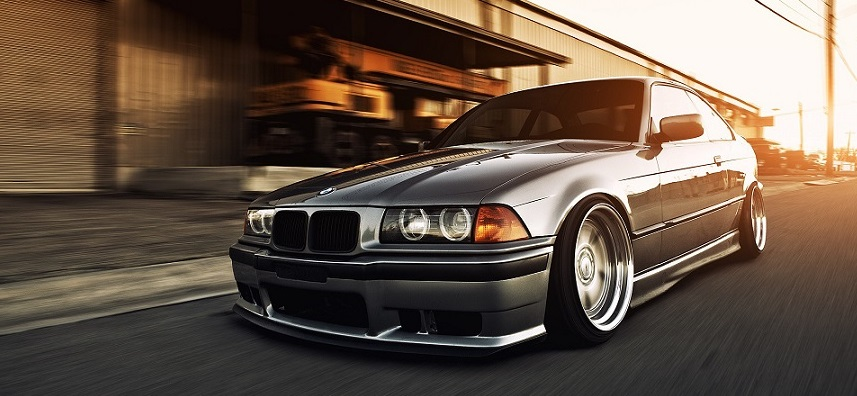
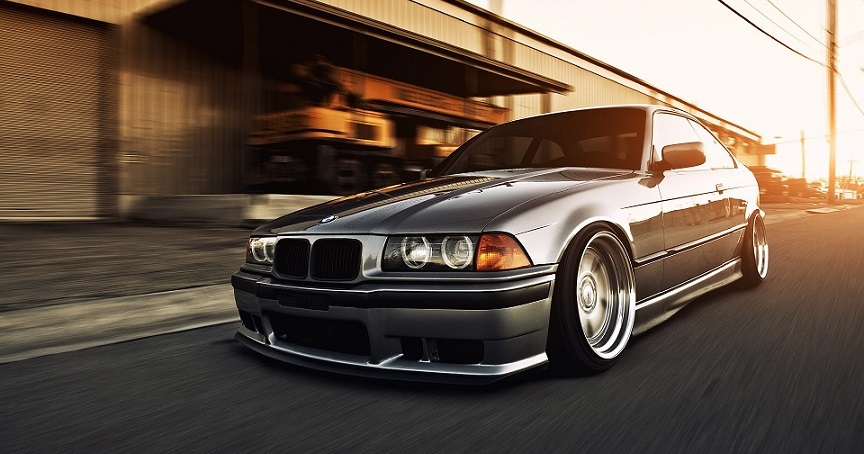
Changed

diff --git a/index.html b/index.html
@@ -53,7 +53,7 @@
         <section id="e-36">
             <h3>e 36 (1990-2000)</h3>
             <hr>
-            <img src="images/e36-1-1.jpg" alt="e 36-01">
+            <img src="images/e36-1.jpg" alt="e 36-01">
             <img src="images/e36-2-2.jpg" alt="e 36-02">
             <p>The E36 was sold in the following body styles: saloon, coupé, convertible, wagon (marketed as "Touring") and hatchback (marketed as "3 Series Compact"). The E36 was the first 3 Series to be offered in a hatchback body style. It was also the
                 first 3 Series to be available with a 6-speed manual transmission (in the 1996 M3), a 5-speed automatic transmission and a four-cylinder diesel engine.</p>

diff --git a/index.css b/index.css
@@ -40,21 +40,21 @@ h4, nav {
     font-size: 20px;
 }
 
-[name=name] {
+[name=name], [name=email] {
     width: 95%;
     border: 1px solid black;
     margin-bottom: 15px;
-}
-
-[name=email] {
-    width: 95%;
-    border: 1px solid black;
-    margin-bottom: 15px;
+    padding-left: 5px;
+    padding-top: 3px;
+    padding-bottom: 3px;
 }
 
 textarea {
     width: 95%;
     border: 1px solid black;
+    padding-left: 5px;
+    padding-top: 3px;
+    padding-bottom: 20px;
 }
 
 #more-information {
